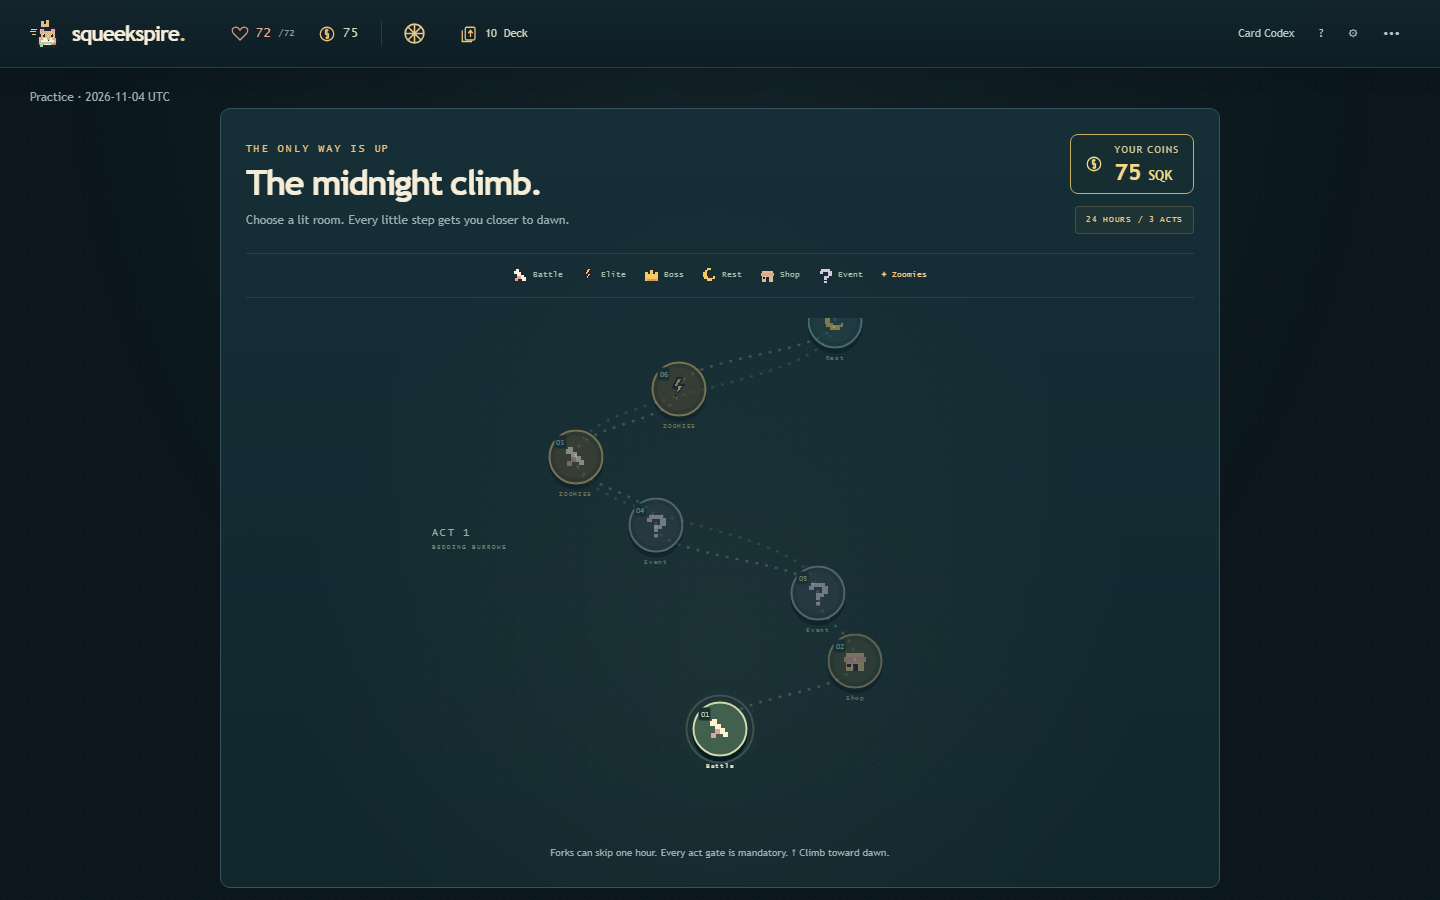
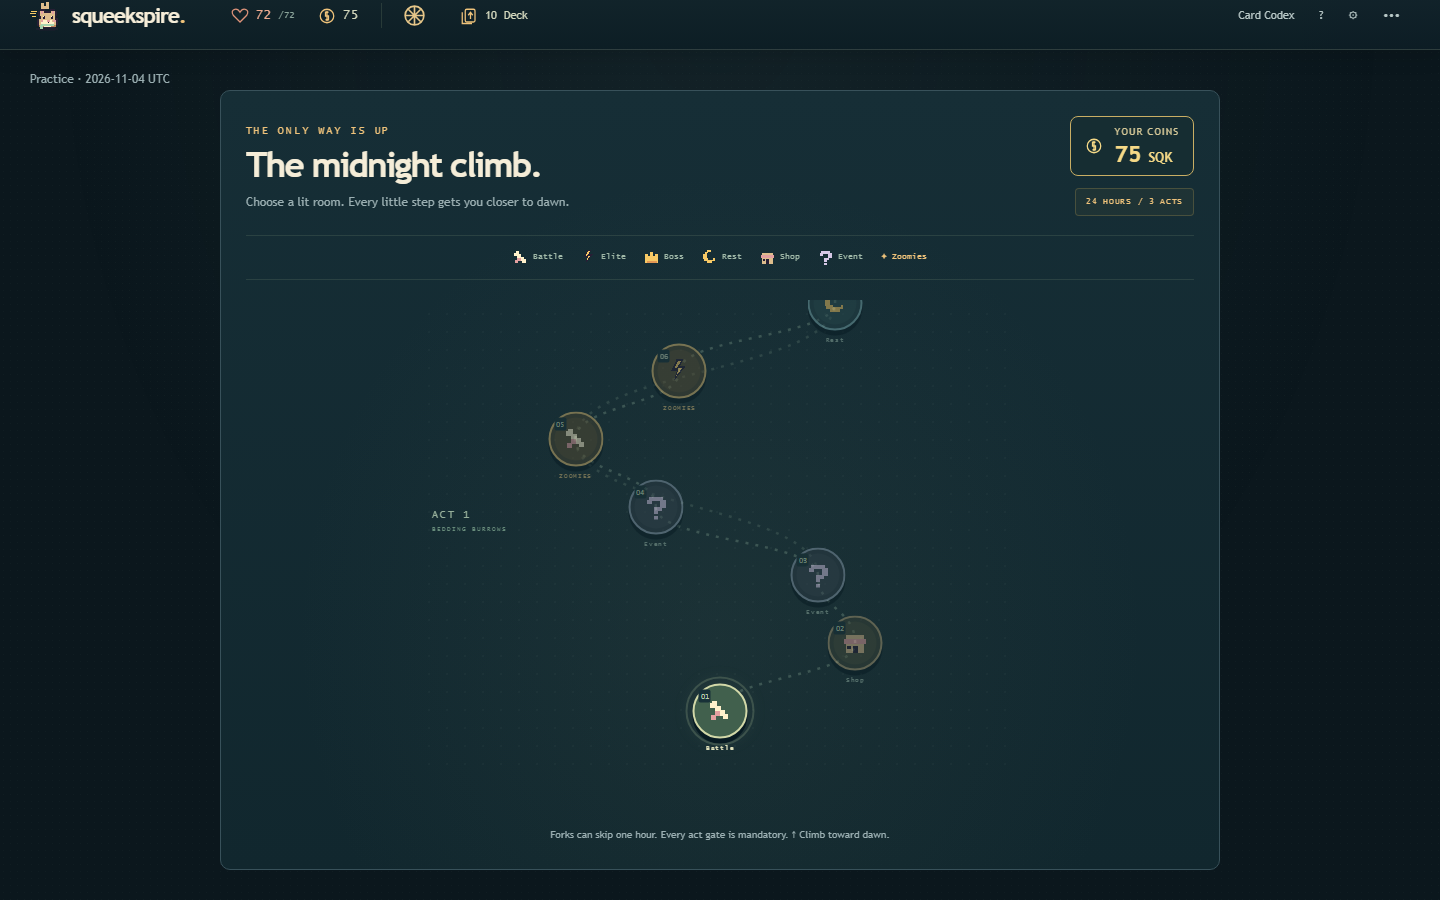
QA2: preserve disabled shop price contrast

diff --git a/src/shop-balance.css b/src/shop-balance.css
@@ -27,8 +27,8 @@
 .shop-item.unaffordable > p,
 .shop-item.sold > .card,
 .shop-item.sold > .relic-shop-art { filter: grayscale(1); opacity: .6; }
-.shop-item.unaffordable > button,
-.shop-remove.unaffordable > button { opacity: 1; background: #253337; border-color: #697176; color: #aeb8ba; cursor: not-allowed; }
+.shop-scene .shop-grid .shop-item.unaffordable > button.primary-button:disabled,
+.shop-scene .shop-remove.unaffordable > button.secondary-button:disabled { opacity: 1; background: #253337; border-color: #697176; color: #aeb8ba; cursor: not-allowed; }
 .shop-scene .unaffordable-price { color: #ff9fa6; }
 .shop-remove.unaffordable > select { opacity: .6; cursor: not-allowed; }
 .encounter-wallet-row { margin: 20px 0 16px; }

diff --git a/docs/qa2_bugs.md b/docs/qa2_bugs.md
@@ -23,7 +23,7 @@ Baseline: pulled `main` with rebase/autostash before changes; existing unrelated
 | Battle hand | Tiny names/rules and overlapping cards hid neighboring text. | Enlarge names/rules, allow wrapping and flexible card height, compact artwork, remove overlapping hand cards, and keep horizontal scrolling within the hand. |
 | Battle labels | Pile labels, exhausted count and play footer were too small to read. | Use readable sizes/contrast and wrap the play footer. Keep the complete normal mobile battle controls inside the requested viewport. |
 | Shop balance | Balance was buried in muted copy and absent from the sticky leave bar. | Prominent live YOUR COINS counters at the shop top and sticky footer. Both update after purchases and removals. |
-| Unaffordable shop items | Only the buy button was disabled; items lacked clear unaffordable styling. | Grey card/relic items, disable buying/removal, and show red prices plus an explanation. Exact-balance purchases remain enabled. |
+| Unaffordable shop items | Only the buy button was disabled; items lacked clear unaffordable styling. A generic disabled-button opacity rule also dimmed prices. | Grey card/relic items, disable buying/removal, and show full-contrast red prices plus an explanation. Exact-balance purchases remain enabled. |
 | Last-card removal | Shop offered removal of the final deck card, which the engine rejected. | Disable removal/select controls and explain the minimum deck size. |
 | Route map / rest | No explicit screen-level balance. | Add visible coin balances to both screens, retaining the shared run header. |
 
